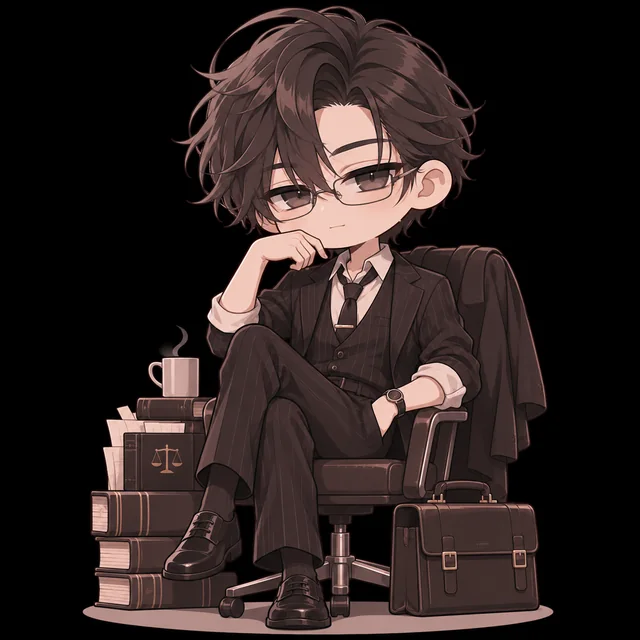
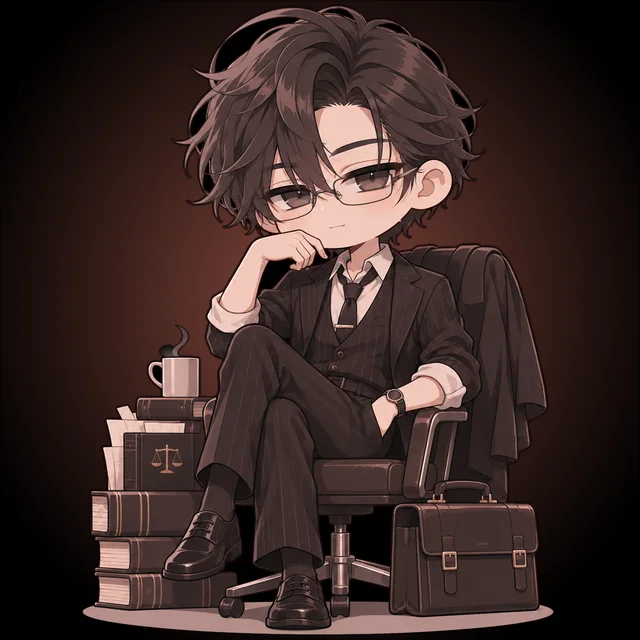
每位角色都有自己代表色的背光，新增蘇柏欽、傅承億角色圖
Claude-Session: https://claude.ai/code/session_01NLB8St6ptJPmPccgvzrg6B

Changed region(s): [[0.0312, 0.0, 0.9688, 0.8125]]

diff --git a/stories.html b/stories.html
@@ -11,8 +11,8 @@ const characters=[
 {id:"cheng",name:"程不言",desc:"刑事辯護律師｜棲川市",portrait:"images/qichuan/cheng.webp",chibi:true,stories:[]},
 {id:"lin",name:"林晏洄",desc:"環保顧問｜棲川市",portrait:"images/qichuan/lin.webp",chibi:true,stories:[]},
 {id:"jian",name:"簡牧陽",desc:"空間設計師｜棲川市",portrait:"images/qichuan/jian.webp",chibi:true,stories:[]},
-{id:"su",name:"蘇柏欽",desc:"廟宇彩繪與神像修復師",stories:[]},
-{id:"fu",name:"傅承億",desc:"霸道乞丐｜都市荒誕喜劇",stories:[]},
+{id:"su",name:"蘇柏欽",desc:"廟宇彩繪與神像修復師",portrait:"images/qichuan/su.webp",chibi:true,stories:[]},
+{id:"fu",name:"傅承億",desc:"霸道乞丐｜都市荒誕喜劇",portrait:"images/qichuan/fu.webp",chibi:true,stories:[]},
 {id:"lu",name:"陸承澤",desc:"從敵人到搭檔",stories:[]}
 ];
 const volumes={qichuan:{name:"棲川市",en:"QICHUAN CITY",desc:"那些生活在同一座城市裡的人，與尚未寫完的故事。",ids:["wen","xu","you","du","cheng","lin","jian"]},null:{name:"NULL",en:"PREDICT / ARCHIVE",desc:"風險不等於犯罪，預測不等於事實。翻閱那些無法被評級定義的人。",ids:["miran","elaine","noa","kael","sian","vera","arthur","rae","liane"]},other:{name:"其他角色",en:"OTHER STORIES",desc:"獨立於兩本刊物之外的角色故事。",ids:["su","fu","lu"]}};
